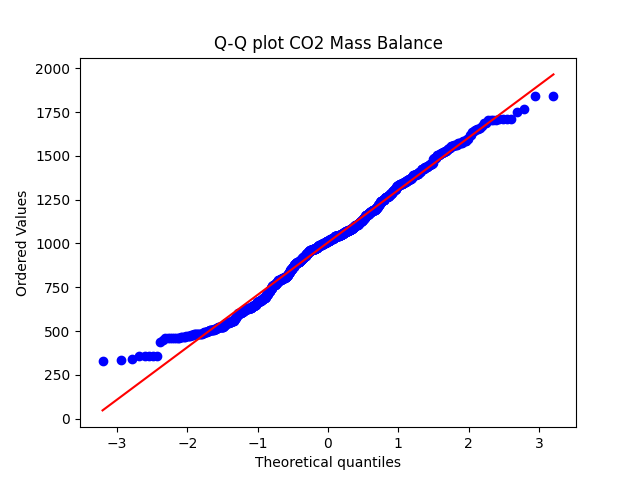
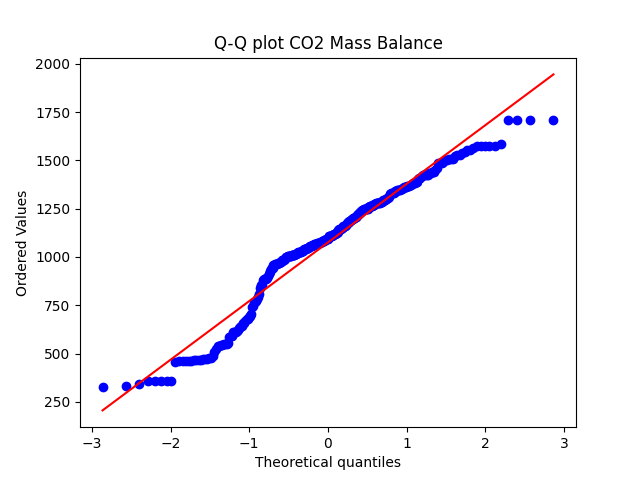
Not out of the woods yet

diff --git a/Functions.py b/Functions.py
@@ -433,44 +433,44 @@ def kalman_estimates(C, min_error=50, error_proportion=0.03):
 
 
 def residual_analysis(dd_list, N_list, E_list, E_list_reg, filepath_plots='documents/plots/'):
-    all_co2, all_N, all_errors_co2, all_errors_N = [], [], [], []
+    all_co2, all_N, errors_co2, errors_N = [], [], [], []
     for device, device_N, device_errors in zip(dd_list, N_list, E_list):
         for period, period_N, period_errors in zip(device, device_N, device_errors):
             for co2, n, error_co2, error_N in zip(np.array(period)[:, 1], period_N, period_errors[0], period_errors[1]):
                 all_co2.append(co2)
                 all_N.append(n)
-                all_errors_co2.append(error_co2)
-                all_errors_N.append(error_N)
+                errors_co2.append(error_co2)
+                errors_N.append(error_N)
 
-    all_co2_reg, all_N_reg = [], []
+    errors_co2_reg, errors_N_reg = [], []
     for device_errors in E_list_reg:
         for period in device_errors:
             skip = True
             for error_co2, error_N in zip(period[0], period[1]):
                 if not skip:
-                    all_co2_reg.append(error_co2)
-                    all_N_reg.append(error_N)
+                    errors_co2_reg.append(error_co2)
+                    errors_N_reg.append(error_N)
                 else:
                     skip = False
 
-    plt.scatter(all_co2, all_errors_co2, marker='.')
-    cor_co2 = round(np.corrcoef(all_co2, all_errors_co2)[1, 0], 3)
+    plt.scatter(all_co2, errors_co2, marker='.')
+    cor_co2 = round(np.corrcoef(all_co2, errors_co2)[1, 0], 3)
     plt.title(f'CO2 residual plot\nCorrelation: {cor_co2}')
     plt.ylabel('Residual')
     plt.xlabel('CO2')
     plt.savefig(filepath_plots + 'co2_residual', bbox_inches='tight')
     plt.show()
 
-    plt.scatter(all_N, all_errors_N, marker='.')
-    cor_N = round(np.corrcoef(all_N, all_errors_N)[1, 0], 3)
+    plt.scatter(all_N, errors_N, marker='.')
+    cor_N = round(np.corrcoef(all_N, errors_N)[1, 0], 3)
     plt.title(f'N residual plot\nCorrelation: {cor_N}')
     plt.ylabel('Residual')
     plt.xlabel('N')
     plt.savefig(filepath_plots + 'N_residual')
     plt.show()
 
-    plt.scatter(all_co2, all_errors_N, marker='.')
-    cor_N = round(np.corrcoef(all_co2, all_errors_N)[1, 0], 3)
+    plt.scatter(all_co2, errors_N, marker='.')
+    cor_N = round(np.corrcoef(all_co2, errors_N)[1, 0], 3)
     plt.title(f'CO2/N residual plot\nCorrelation: {cor_N}')
     plt.ylabel('Residual')
     plt.xlabel('N')
@@ -482,7 +482,7 @@ def residual_analysis(dd_list, N_list, E_list, E_list_reg, filepath_plots='docum
     plt.savefig(filepath_plots + 'qq_n_MB')
     plt.show()
 
-    stats.probplot(all_N_reg, dist="norm", plot=plt)
+    stats.probplot(errors_N_reg, dist="norm", plot=plt)
     plt.title('Q-Q plot N Linear Regression')
     plt.savefig(filepath_plots + 'qq_n_lr')
     plt.show()
@@ -492,29 +492,29 @@ def residual_analysis(dd_list, N_list, E_list, E_list_reg, filepath_plots='docum
     plt.savefig(filepath_plots + 'qq_co2_MB')
     plt.show()
 
-    stats.probplot(all_co2_reg, dist="norm", plot=plt)
+    stats.probplot(errors_co2_reg, dist="norm", plot=plt)
     plt.title('Q-Q plot CO2 Linear Regression')
     plt.savefig(filepath_plots + 'qq_co2_lr')
     plt.show()
 
     print('For N:')
     print('Summary for mass balance errors:')
-    temp = pd.Series(all_N)
+    temp = pd.Series(errors_N)
     print(temp.describe())
     print('Summary for linear regression errors:')
-    temp = pd.Series(all_N_reg)
+    temp = pd.Series(errors_N_reg)
     print(temp.describe())
-    wilcox = wilcoxon(all_N, all_N_reg)
+    wilcox = wilcoxon(all_N, errors_N_reg)
     print(f'P-values for wilcox rank sum test {wilcox.pvalue}')
 
     print('For co2:')
     print('Summary for mass balance errors:')
-    temp = pd.Series(all_co2)
+    temp = pd.Series(errors_co2)
     print(temp.describe())
     print('Summary for linear regression errors:')
-    temp = pd.Series(all_co2_reg)
+    temp = pd.Series(errors_co2_reg)
     print(temp.describe())
-    wilcox = wilcoxon(all_co2, all_co2_reg)
+    wilcox = wilcoxon(all_co2, errors_co2_reg)
     print(f'P-values for wilcox rank sum test {wilcox.pvalue}')
 
 
@@ -690,7 +690,7 @@ def C_estimate(x, C, C_adj, N, V, dt=15 * 60, m=15, d=2):
     Q_adj, Q_out, C_out, m = x
     Q = Q_adj + Q_out
 
-    C = np.array(C)
+    C = np.array(C) / 1_000_000     # ppm
     N = np.array(N)
     C_adj = np.array(C_adj)[1:]
 
@@ -724,8 +724,8 @@ def N_estimate(x, C, C_adj, V, dt=15 * 60, m=15, d=0, max_n=50):
     Q_adj, Q_out, C_out, m = x
     Q = Q_adj + Q_out
 
-    C_adj = np.array(C_adj)[1:]
-    C = np.array(C)
+    C_adj = np.array(C_adj)[1:] / 1_000_000
+    C = np.array(C) / 1_000_000     # ppm
     Ci = C[:-1]
     C = C[1:]
     N = np.array(V * (C - (1 - Q * dt) * Ci -

diff --git a/constants.py b/constants.py
@@ -11,8 +11,8 @@ n_map = {0: [], 1: [2, 10], 2: [1, 3], 3: [2, 4], 4: [2, 5], 5: [4, 6], 6: [5, 7
          17: [16, 18], 18: [17, 19], 19: [18, 20], 20: [11, 19], 21: [22, 27], 22: [21, 23], 23: [22, 24],
          24: [23, 25], 25: [24, 26], 26: [25, 27], 27: [21, 26]
          }
-#         Q_adj        Q_out    C_out        m in mg/s(0.5/86400, 2/86400
-bounds = ((0, 1), (0, 1), (300, 500), (11.6/2, 11.6*2))
-
+#         Q_adj        Q_out    C_out        m in m^3/s
+bounds = ((0, 1), (0, 1), (300, 500), (0, 0.0001))
+# V in m^3:
 V = np.array([0, 0, 0, 0, 0, 0, 0, 0, 0, 0, 0, 0, 0, 0, 0, 0, 0, 0, 0, 0, 0,
-              11.5 * 14.6, 10.2 * 11.5, 8.8 * 14.2, 8.8 * 14.8, 9.2 * 11.3, 15.5 * 11.6, 4.8 * 28]) * 3 * 1000
+              11.5 * 14.6, 10.2 * 11.5, 8.8 * 14.2, 8.8 * 14.8, 9.2 * 11.3, 15.5 * 11.6, 4.8 * 28]) * 3 #* 1000

diff --git a/Optimise.py b/Optimise.py
@@ -8,11 +8,11 @@ from Functions import simple_models_hold_out, hold_out, adjacent_co2, residual_a
 dates = ['2022_24_11', '2022_30_11', '2022_07_12', '2022_09_12', '2022_14_12', '2023_18_01']
 # dates = ['2022_24_11', '2022_30_11']
 
-# E_list_reg = simple_models_hold_out(dates, dt=15 * 60, method='l', plot=True, plot_scatter=0)
 # hold-out method:
 error_file = 'parameters/e.txt'
-dd_list, N_list, E_list = hold_out(dates, plot=True, filename_parameters='testing', optimise_N=False,
+dd_list, N_list, E_list = hold_out(dates[:2], plot=True, filename_parameters='testing', optimise_N=0,
                                    summary_errors=error_file)
+E_list_reg = simple_models_hold_out(dates[:2], dt=15 * 60, method='l', plot=True, plot_scatter=0)
 
 residual_analysis(dd_list, N_list, E_list, E_list_reg)
 
